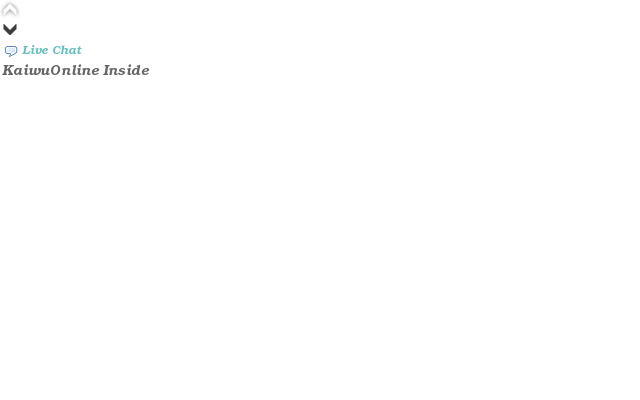
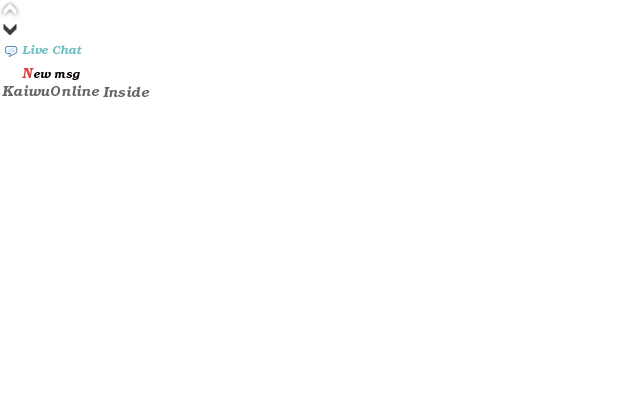
pop - chat client UE improve

Changed region(s): [[0.0, 0.15, 0.25, 0.24]]

diff --git a/pop/fly/css/chat.css b/pop/fly/css/chat.css
@@ -13,7 +13,7 @@ input[type=checkbox] {vertical-align:middle; margin-top:-2px; margin-bottom:1px;
 	display: none;
 	width: 20px;
 	height: 20px;
-	background:transparent url(http://www.kaiwuonline.com/img/im/client.png) no-repeat scroll 0 0;
+	background:transparent url(http://www.kaiwuonline.com/img/im/client.gif) no-repeat scroll 0 0;
 	overflow: hidden;
 	cursor: pointer;
 }
@@ -36,23 +36,25 @@ input[type=checkbox] {vertical-align:middle; margin-top:-2px; margin-bottom:1px;
 	height: 20px;
 	width: 155px;
 	overflow: hidden;
-	background:transparent url(http://www.kaiwuonline.com/img/im/client.png) no-repeat scroll 0 -58px;
+	background:transparent url(http://www.kaiwuonline.com/img/im/client.gif) no-repeat scroll 0 -81px;
 }
 #bchat-trigger {
 	cursor: pointer;
 	height: 20px;
 	width: 85px;
 	overflow: hidden;
-	background:transparent url(http://www.kaiwuonline.com/img/im/client.png) no-repeat scroll 0 -38px;
+	background:transparent url(http://www.kaiwuonline.com/img/im/client.gif) no-repeat scroll 0 -38px;
 }
 /*#bchat-trigger img {vertical-align: top;}*/
-#bchat-trigger.dirty {color: green;}
+#bchat-trigger.dirty {
+	background:transparent url(http://www.kaiwuonline.com/img/im/client.gif) no-repeat scroll 0 -63px;
+}
 #bchat-downer {
 	cursor: pointer;
 	height: 20px;
 	width: 20px;
 	overflow: hidden;
-	background:transparent url(http://www.kaiwuonline.com/img/im/client.png) no-repeat scroll 0 -17px;
+	background:transparent url(http://www.kaiwuonline.com/img/im/client.gif) no-repeat scroll 0 -17px;
 }
 
 #bchat-body {
@@ -62,14 +64,25 @@ input[type=checkbox] {vertical-align:middle; margin-top:-2px; margin-bottom:1px;
 	border: 1px solid #666666;
 	/*border-bottom: 1px solid #EEEEEE;*/
 }
-#bchat-hint, #bchat-hint2 {
+#bchat-hint {
 	color: #999;
 	overflow: hidden;
-	margin: 10px;
+	margin: 5px 10px;
+	float: left;
+	width: 80%;
+}
+#bchat-close {
+	cursor: pointer;
+	float: right;
+	height: 20px;
+	width: 20px;
+	margin: 2px 11px 0 0;
+	background:transparent url(http://www.kaiwuonline.com/img/im/client.gif) no-repeat scroll 0 -99px;
 }
 #bchat-msgs {
 	border: 1px solid #666666;
 	height: 200px;
+	width: 92%;
 	margin: 10px;
 	overflow: auto;
 }
@@ -79,7 +92,9 @@ textarea#bchat-input {
 	width: 88%;
 }
 #bchat-hint2 {
-	margin-top: 0;
+	color: #999;
+	overflow: hidden;
+	margin: 0 10px 10px 10px;
 }
 
 .item-join, .item-visit, .item-send, .item-msg {

diff --git a/pop/fly/js/ape/app/bmoon.chat.js b/pop/fly/js/ape/app/bmoon.chat.js
@@ -48,6 +48,7 @@ bmoon.chat = {
 				'<div id="bchat-max">',
 					'<div id="bchat-body">',
 			    	    '<div id="bchat-hint">客服当前离线，留言功能开启。</div>',
+						'<div id="bchat-close">&nbsp;</div>',
 						'<div id="bchat-msgs" class="bchat-msgs">',
 			    	        '<div class="recently"></div><div class="data"></div>',
 			    	    '</div>',
@@ -81,6 +82,7 @@ bmoon.chat = {
 		o.min = $('#bchat-min');
 		o.max = $('#bchat-max');
 		o.trigger = $('#bchat-trigger');
+		o.closer = $('#bchat-close');
 		o.msglist = $('#bchat-msgs');
 		o.hint = $('#bchat-hint');
 		o.recentbox = $('.recently', o.msglist);
@@ -89,7 +91,6 @@ bmoon.chat = {
 		o.reminder = $('#bchat-remind')[0];
 		o.rmdsw = $('#bchat-remind-sw');
 
-		$('#bchat-trigger').toggle(o.openChat, o.closeChat);
 		$('#bchat-input').bind('keydown', 'ctrl+return', o.msgSend);
 		// chat.css is appended by js, will overwrite my fadeIn, so, delay.
 		//setTimeout(o.initUI, 2000);
@@ -117,6 +118,8 @@ bmoon.chat = {
 			o.max.fadeIn();
 			$.cookie('lcs_ui_max', "1");
 		});
+		o.closer.click(o.closeChat);
+		o.trigger.click(o.openChat);
 	},
 	
 	openChat: function() {
@@ -127,12 +130,14 @@ bmoon.chat = {
 		
 		o.msglist[0].scrollTop = o.msglist[0].scrollHeight;
 		o.trigger.removeClass('dirty');
+		o.trigger.unbind('click').click(o.closeChat);
 	},
 
 	closeChat: function() {
 		var o = bmoon.chat.init();
 
 		$('#bchat-body').fadeOut();
+		o.trigger.unbind('click').click(o.openChat);
 	},
 
 	msgSend: function() {
